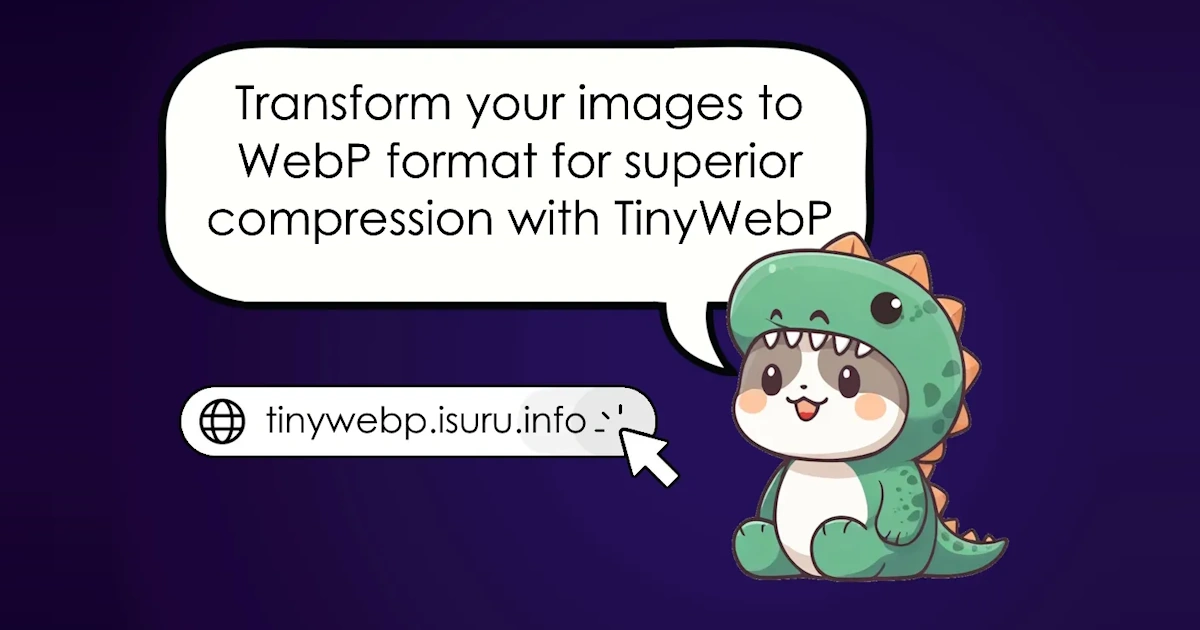
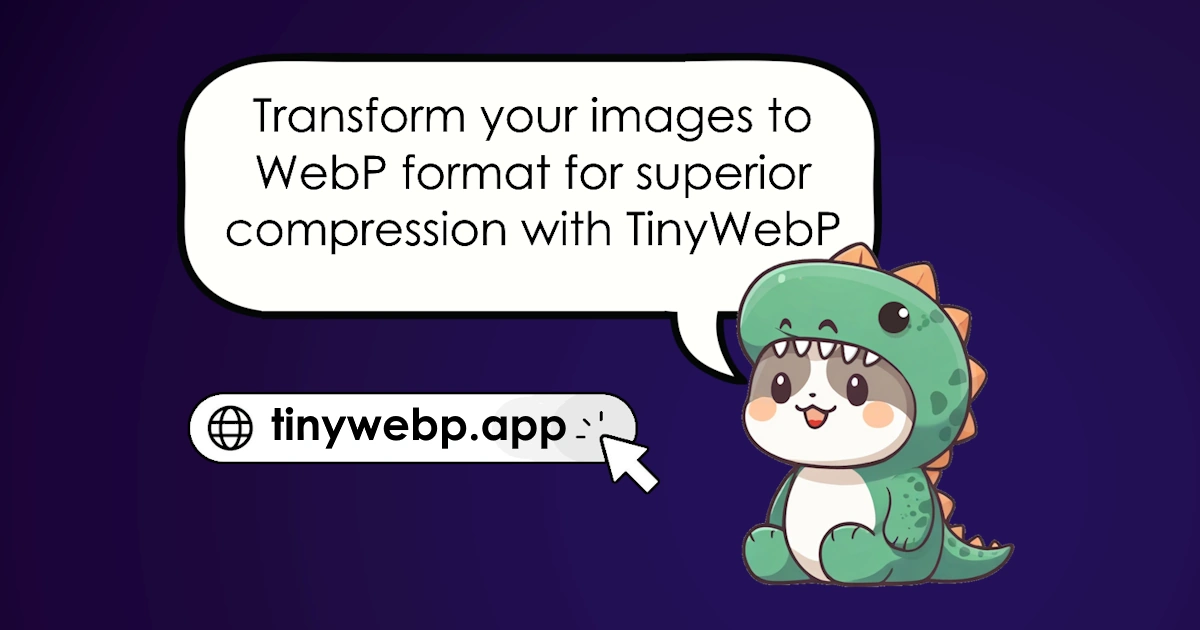
Updated application with new domain

Changed region(s): [[0.1233, 0.0603, 0.8633, 0.9349], [0.1233, 0.6032, 0.5858, 0.7841]]

diff --git a/index.html b/index.html
@@ -12,15 +12,15 @@
     <!-- Open Graph Meta (for social media sharing) -->
     <meta property="og:title" content="TinyWebP - Convert Images to WebP" />
     <meta property="og:description" content="Easily convert JPG, PNG, GIF, and more to WebP format with TinyWebP." />
-    <meta property="og:image" content="https://tinywebp.isuru.info/social_tinywebp.webp" />
+    <meta property="og:image" content="https://tinywebp.app/social_tinywebp.webp" />
     <meta property="og:type" content="website" />
-    <meta property="og:url" content="https://tinywebp.isuru.info" />
+    <meta property="og:url" content="https://tinywebp.app" />
 
     <!-- Twitter Meta -->
     <meta name="twitter:card" content="summary_large_image" />
     <meta name="twitter:title" content="TinyWebP - Convert Images to WebP" />
     <meta name="twitter:description" content="Easily convert JPG, PNG, GIF, and more to WebP format with TinyWebP." />
-    <meta name="twitter:image" content="https://tinywebp.isuru.info/social_tinywebp.webp" />
+    <meta name="twitter:image" content="https://tinywebp.app/social_tinywebp.webp" />
 
     <link rel="icon" type="image/png" href="/favicon-96x96.webp" sizes="96x96" />
     <link rel="icon" type="image/svg+xml" href="/favicon.svg" />

diff --git a/src/pages/Terms.tsx b/src/pages/Terms.tsx
@@ -55,7 +55,7 @@ function Terms() {
         <h2 className="text-xl font-semibold mt-6 mb-2">4. Changes to Terms</h2>
         <p>We may update these terms from time to time. Continued use of TinyWebP means you accept any modifications.</p>
 
-        <p className="mt-6">For questions, contact us at <a href="mailto:hello@isuru.info" className="text-blue-600 dark:text-blue-400 underline">hello@isuru.info</a>.</p>
+        <p className="mt-6">For questions, contact us at <a href="mailto:hello@tinywebp.app" className="text-blue-600 dark:text-blue-400 underline">hello@tinywebp.app</a>.</p>
       </div>
 
       {/* Footer */}

diff --git a/src/pages/How.tsx b/src/pages/How.tsx
@@ -57,8 +57,8 @@ function How() {
         <div className="my-8">
           <iframe
             className="aspect-16/9 w-full h-auto"
-            src="https://www.youtube.com/embed/your-video-id" // Replace with your YouTube video ID
-            title="TinyWebP Tutorial"
+            src="https://www.youtube.com/embed/JBz-vB2-Ykg" // Replace with your YouTube video ID
+            title="TinyWebP - Convert Images to WebP"
             frameBorder="0"
             allow="accelerometer; autoplay; encrypted-media; gyroscope; picture-in-picture"
             allowFullScreen

diff --git a/src/pages/PrivacyPolicy.tsx b/src/pages/PrivacyPolicy.tsx
@@ -67,7 +67,7 @@ function PrivacyPolicy() {
           We may update this policy as needed. Continued use of TinyWebP means you agree to the latest version.
         </p>
 
-        <p className="mt-6">For any concerns, contact us at <a href="mailto:hello@isuru.info" className="text-blue-600 dark:text-blue-400 underline">hello@isuru.info</a>.</p>
+        <p className="mt-6">For any concerns, contact us at <a href="mailto:hello@tinywebp.app" className="text-blue-600 dark:text-blue-400 underline">hello@tinywebp.app</a>.</p>
       </div>
 
       {/* Footer */}
